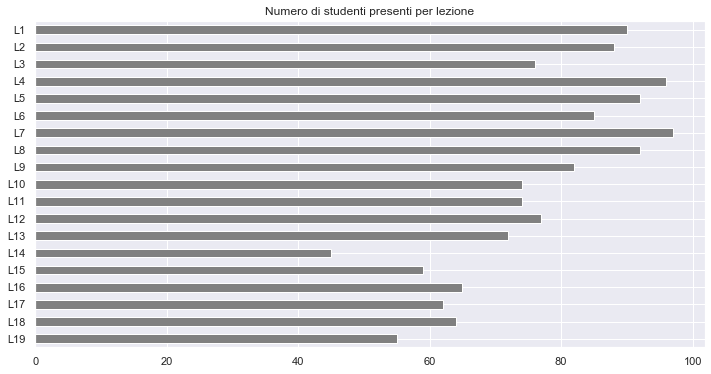
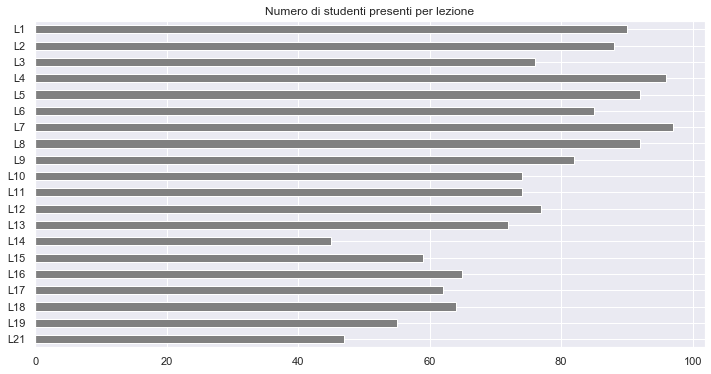
Updated freqs

diff --git a/sito/frequenze.md b/sito/frequenze.md
@@ -8,7 +8,7 @@ Questa pagina contiene una analisi *aggregata* delle informazioni riguardanti la
 
 Il primo grafico riporta il numero assoluto di studenti presenti 
 per ciascuna lezione che si è svolta alla data odierna, in media
-sono stati presenti **76.05** (σ=14.88) studenti.
+sono stati presenti **74.59** (σ=15.87) studenti.
 
 
 
@@ -46,6 +46,15 @@ Risulta interessante *classificare* i pattern di presenza, cercando di dedurre d
 
 Tale classificazione è evidentemente arbitraria, ma offre nondimeno una ragionevole interpretazione dei dati raccolti. Il grafico seguente mostra le frequenze dei vari tipi di studenti.
 
+    /Users/santini/.local/share/dir-venv/f9ff2d2596abdb66cb97e5ab34e93dbb-drafts/lib/python3.7/site-packages/ipykernel_launcher.py:5: FutureWarning: 
+    Passing list-likes to .loc or [] with any missing label will raise
+    KeyError in the future, you can use .reindex() as an alternative.
+    
+    See the documentation here:
+    https://pandas.pydata.org/pandas-docs/stable/user_guide/indexing.html#deprecate-loc-reindex-listlike
+      """
 
-![png](frequenze_files/frequenze_15_0.png)
+
+
+![png](frequenze_files/frequenze_15_1.png)
 
